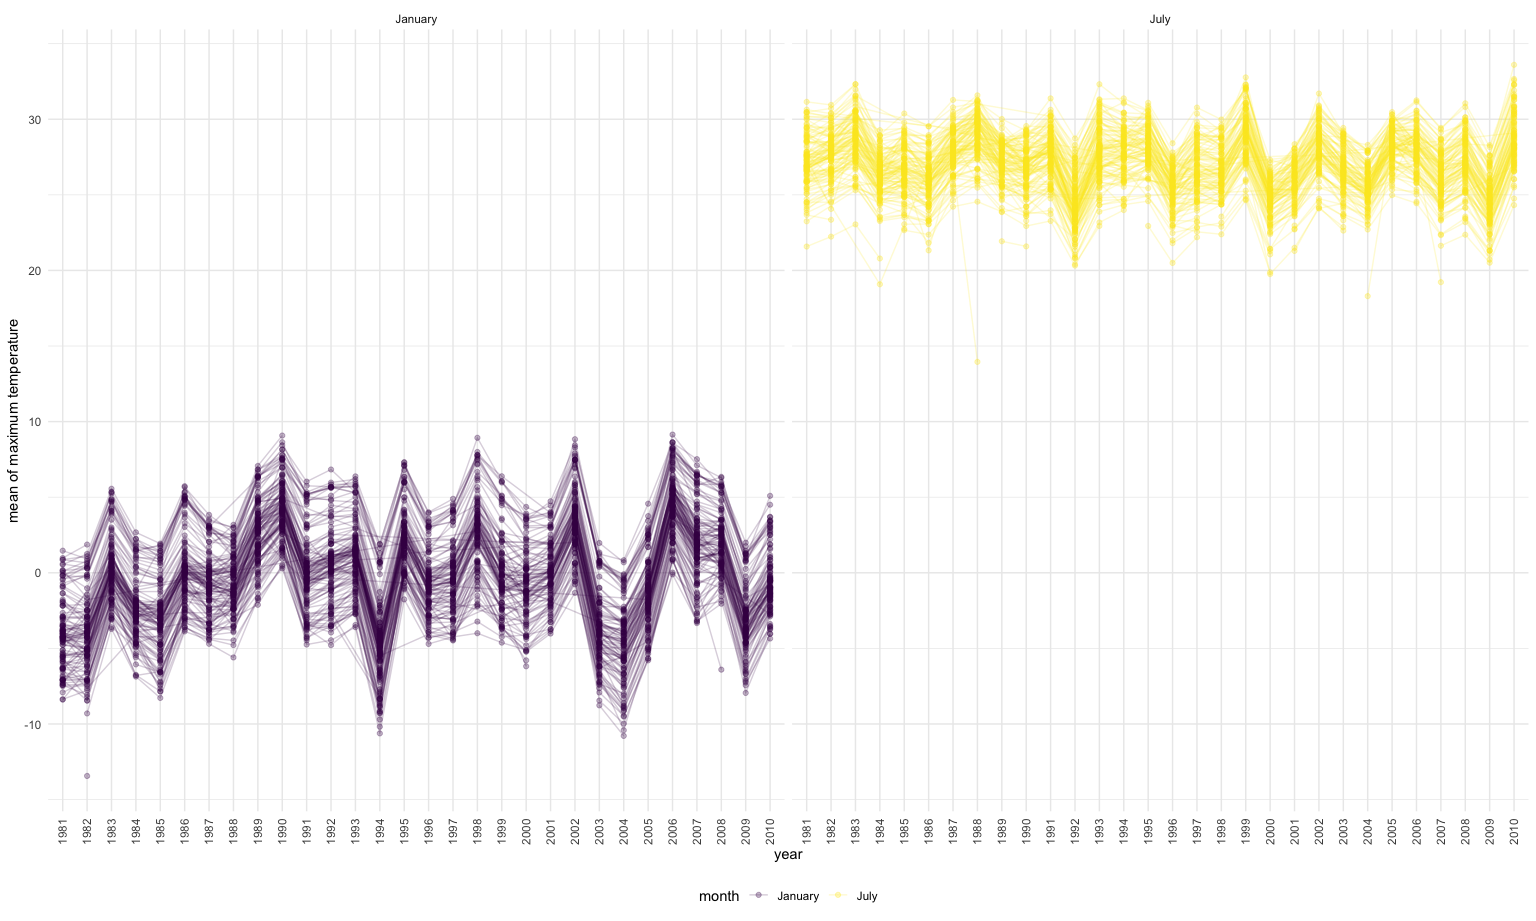
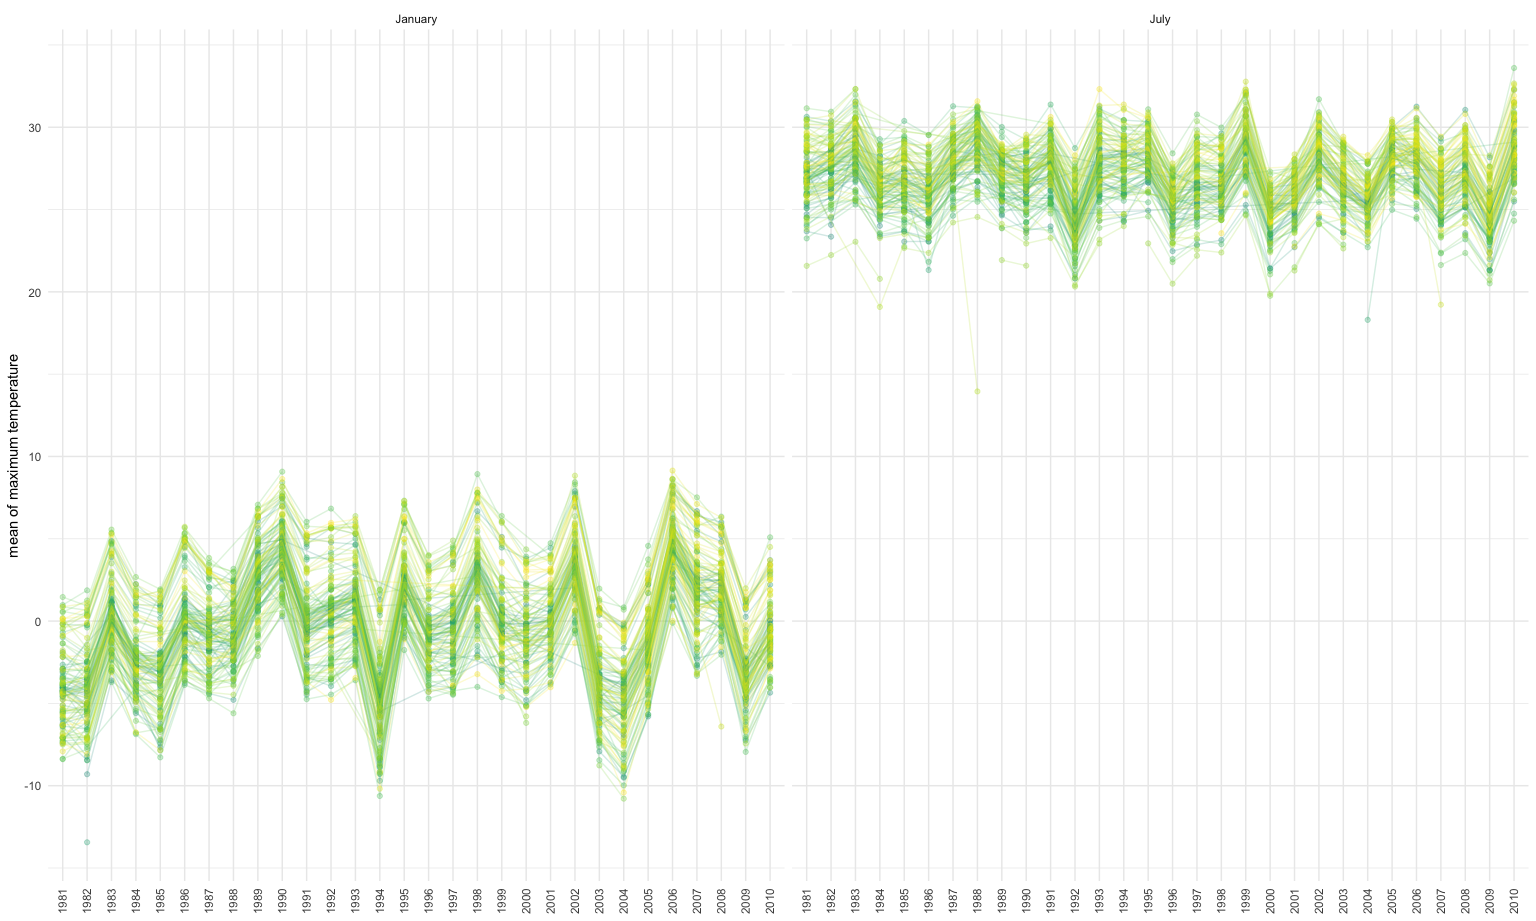
hw 3 final version 2

diff --git a/p8105_hw3_zl2978.md b/p8105_hw3_zl2978.md
@@ -159,46 +159,21 @@ day_of_week_p =
   geom_line()
 acc_total_df %>% 
   select(-day_id) %>% 
+  pivot_wider(names_from = week,
+              names_prefix = "week ",
+              values_from = total_of_the_day) %>%
   knitr::kable()
 ```
 
-| week | day\_of\_the\_week | total\_of\_the\_day |
-| ---: | :----------------- | ------------------: |
-|    1 | Sunday             |           631105.00 |
-|    1 | Monday             |            78828.07 |
-|    1 | Tuesday            |           307094.24 |
-|    1 | Wednesday          |           340115.01 |
-|    1 | Thursday           |           355923.64 |
-|    1 | Friday             |           480542.62 |
-|    1 | Saturday           |           376254.00 |
-|    2 | Sunday             |           422018.00 |
-|    2 | Monday             |           295431.00 |
-|    2 | Tuesday            |           423245.00 |
-|    2 | Wednesday          |           440962.00 |
-|    2 | Thursday           |           474048.00 |
-|    2 | Friday             |           568839.00 |
-|    2 | Saturday           |           607175.00 |
-|    3 | Sunday             |           467052.00 |
-|    3 | Monday             |           685910.00 |
-|    3 | Tuesday            |           381507.00 |
-|    3 | Wednesday          |           468869.00 |
-|    3 | Thursday           |           371230.00 |
-|    3 | Friday             |           467420.00 |
-|    3 | Saturday           |           382928.00 |
-|    4 | Sunday             |           260617.00 |
-|    4 | Monday             |           409450.00 |
-|    4 | Tuesday            |           319568.00 |
-|    4 | Wednesday          |           434460.00 |
-|    4 | Thursday           |           340291.00 |
-|    4 | Friday             |           154049.00 |
-|    4 | Saturday           |             1440.00 |
-|    5 | Sunday             |           138421.00 |
-|    5 | Monday             |           389080.00 |
-|    5 | Tuesday            |           367824.00 |
-|    5 | Wednesday          |           445366.00 |
-|    5 | Thursday           |           549658.00 |
-|    5 | Friday             |           620860.00 |
-|    5 | Saturday           |             1440.00 |
+| day\_of\_the\_week |    week 1 | week 2 | week 3 | week 4 | week 5 |
+| :----------------- | --------: | -----: | -----: | -----: | -----: |
+| Sunday             | 631105.00 | 422018 | 467052 | 260617 | 138421 |
+| Monday             |  78828.07 | 295431 | 685910 | 409450 | 389080 |
+| Tuesday            | 307094.24 | 423245 | 381507 | 319568 | 367824 |
+| Wednesday          | 340115.01 | 440962 | 468869 | 434460 | 445366 |
+| Thursday           | 355923.64 | 474048 | 371230 | 340291 | 549658 |
+| Friday             | 480542.62 | 568839 | 467420 | 154049 | 620860 |
+| Saturday           | 376254.00 | 607175 | 382928 |   1440 |   1440 |
 
 I will create a plot showing the mean activity for weekdays and
 weekends.
@@ -341,11 +316,11 @@ nyweather_df %>%
     ## `summarise()` regrouping output by 'month', 'id' (override with `.groups` argument)
 
 ``` r
-ggplot(data = tmax_jj_df, aes(x = year, y = mean_tmax ,color = month, group = id)) + 
+ggplot(data = tmax_jj_df, aes(x = year, y = mean_tmax ,color = id, group = id)) + 
 geom_point(alpha = 0.3) +
 geom_path(alpha = 0.2) + 
 facet_grid(.~month) + 
-theme(axis.text.x = element_text(angle = 90, vjust = 0.5, hjust = 1)) + 
+theme(legend.position = "none", axis.title.x = element_blank(), axis.text.x = element_text(angle = 90, vjust = 0.5, hjust = 1)) + 
 labs(y = "mean of maximum temperature")
 ```
 
@@ -364,14 +339,24 @@ about that, I will plot a boxplot.
 ``` r
 ggplot(data = tmax_jj_df, aes(x = year, y = mean_tmax ,color = month)) +
 geom_boxplot() +
-facet_grid(.~month)+ 
-theme(axis.text.x = element_text(angle = 90, vjust = 0.5, hjust = 1)) + 
-labs(y = "mean of maximum temperature")
+facet_grid(.~month) + 
+theme(axis.text.x = element_text(angle = 90, vjust = 0.5, hjust = 1))
 ```
 
     ## Warning: Removed 7058 rows containing non-finite values (stat_boxplot).
 
 <img src="p8105_hw3_zl2978_files/figure-gfm/unnamed-chunk-17-1.png" width="90%" />
+
+``` r
+labs(y = "mean of maximum temperature")
+```
+
+    ## $y
+    ## [1] "mean of maximum temperature"
+    ## 
+    ## attr(,"class")
+    ## [1] "labels"
+
 As the boxplot shown, the outliers for January are closer to the range
 of their regular values compare to those of July, and for January, the
 outliers are tend to be higher than the range of regular values.
